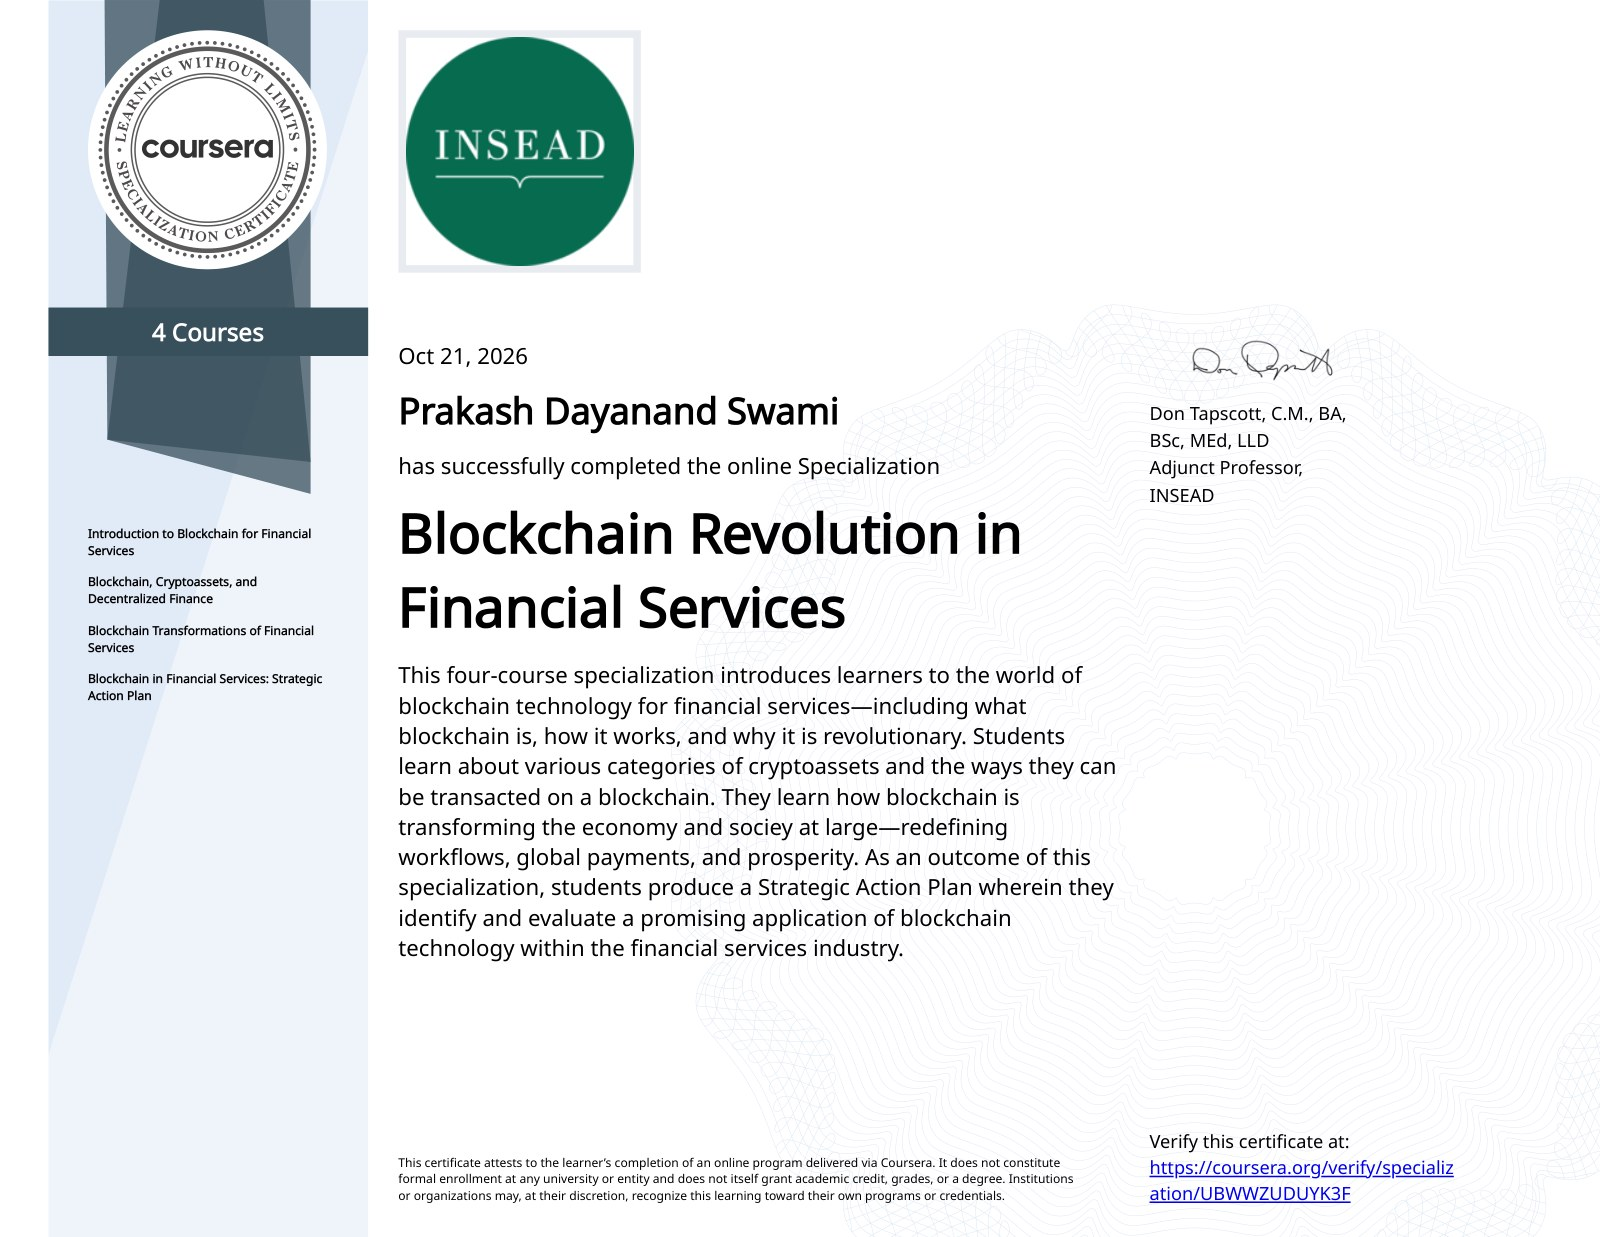
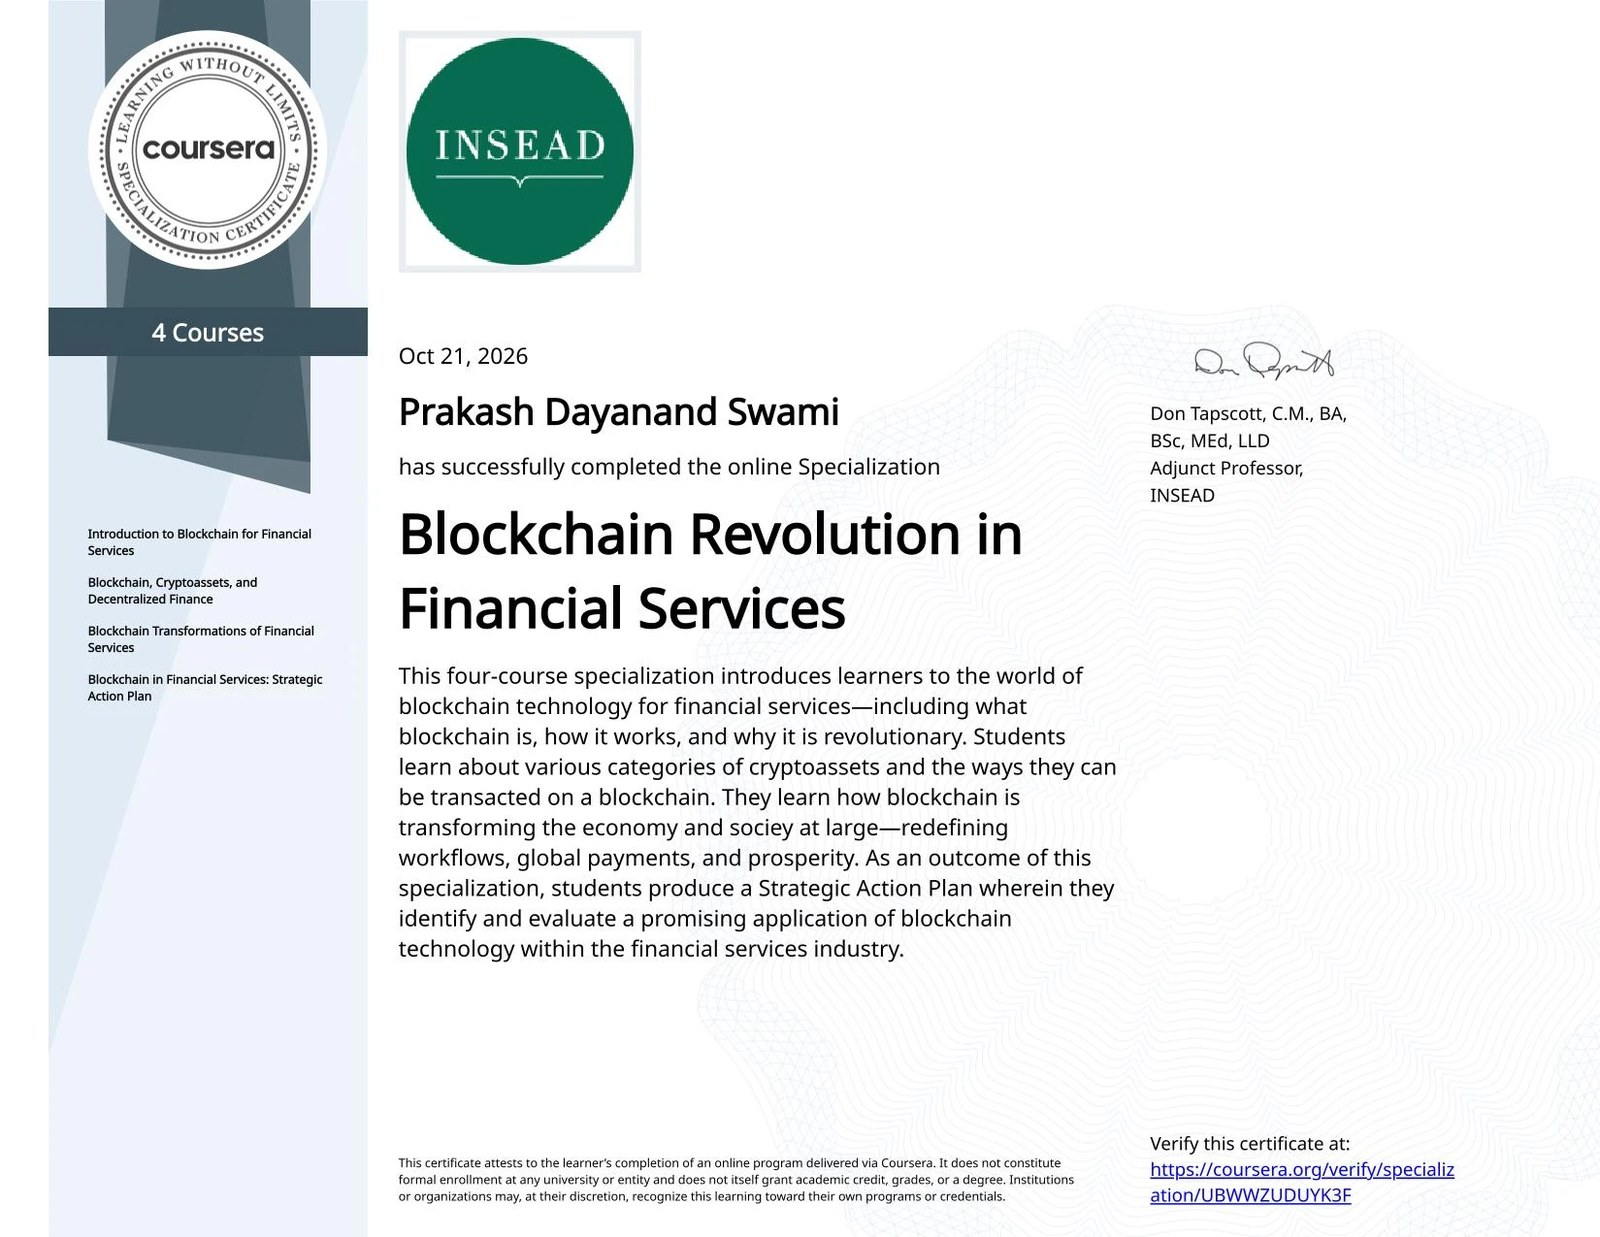
Add AWS Cloud Technology Consultant certificate and update INSEAD certificate image

diff --git a/src/data/portfolio.ts b/src/data/portfolio.ts
@@ -442,7 +442,7 @@ export type Certification = {
 
 // Topics the home page groups certifications under, in display order (the first opens by default);
 // a topic with no certificates is skipped
-export const certificationTopics = ["AI & LLMs", "Web Development", "Data Science", "Blockchain", "Soft Skills"];
+export const certificationTopics = ["AI & LLMs", "Web Development", "Cloud Computing", "Data Science", "Blockchain", "Soft Skills"];
 
 // Detail-page fields (date, learned, skills) are placeholders marked TODO; add image once you have it.
 export const certifications: Certification[] = [
@@ -515,6 +515,30 @@ export const certifications: Certification[] = [
       "Foundations of supervised machine learning",
     ],
     skills: ["Python", "NumPy", "Pandas", "Matplotlib", "Supervised Learning"], // TODO
+  },
+  {
+    slug: "aws-cloud-technology-consultant",
+    title: "AWS Cloud Technology Consultant Professional Certificate",
+    issuer: "Amazon Web Services · Coursera",
+    topic: "Cloud Computing",
+    logo: "/certifications/logos/aws.png",
+    url: "https://coursera.org/verify/professional-cert/BKEL4EPRYB98",
+    date: "October 31, 2026",
+    image: {
+      src: "/certifications/aws-cloud-technology-consultant.jpg",
+      alt: "Coursera professional certificate: AWS Cloud Technology Consultant by Amazon Web Services, Prakash Dayanand Swami",
+      width: 1600,
+      height: 1237,
+    },
+    learned: [
+      "Core AWS cloud concepts and technical essentials",
+      "Providing technical support for AWS workloads",
+      "Developing Python applications on AWS",
+      "DevOps, automation and project management in the AWS Cloud",
+      "Data analytics and databases on AWS",
+      "Designing solutions with the AWS Well-Architected Framework",
+    ],
+    skills: ["AWS", "Cloud Computing", "Python", "DevOps", "Automation", "Databases", "Cloud Consulting"],
   },
   {
     slug: "blockchain-revolution-financial-services",
